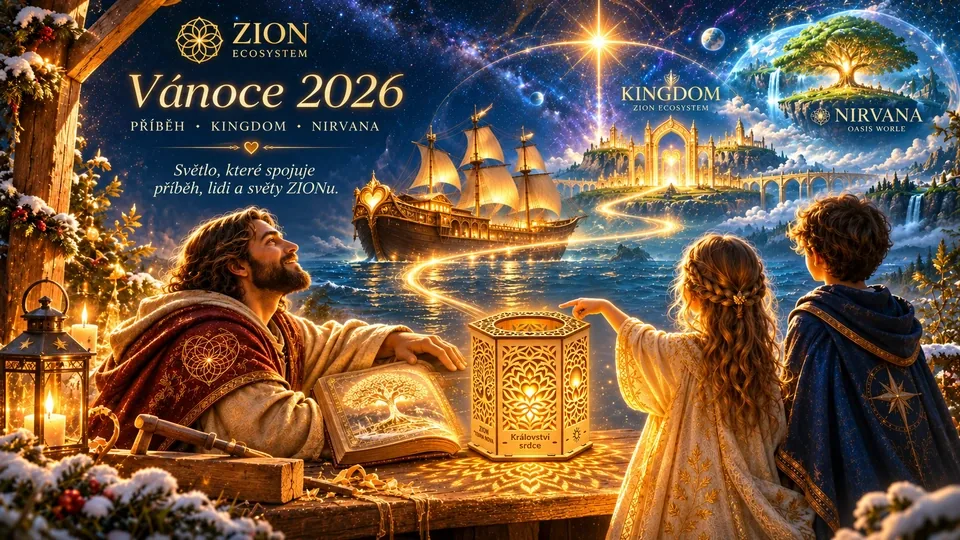
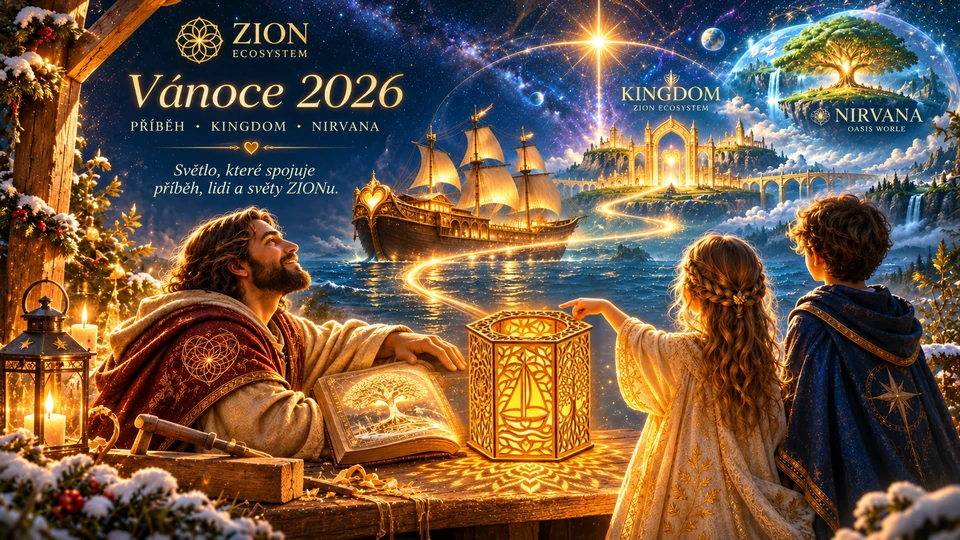
vizual: Lumi 2 hero bannery na 3 doménách + cache-busting ?v=7
Sada ZION_Hero_Lumi_2_WebP (heros/shop/Lumi) nahrazuje osm bannerů pod
stávajícími jmény, ve stejných rozměrech:

- app: imágenes/home/christmas-kingdom(.webp|-m.webp) 1672×941 / 960×540,
  news/christmas-2026/{hero-1600,hero-960,lampion-wide}
- market: hero-kolekce-2027.webp, vanoce/hero/lampion-wide.webp
  (tyto dva už dovezl paralelní commit 614c88f19, který je strhl do svého)
- apex: images/market-open.webp

nginx drží obrázky 7 dní v prohlížeči (`max-age=604800`), takže kdo je viděl
před výměnou, měl by starý banner až do vypršení cache. Proto je verze v kódu
posunutá na `?v=7` — u src i srcSet shodně, aby si prohlížeč nevybral
polovinu z cache. Obrázky, které se neměnily (card-lampion, galerie, příběh),
zůstávají na `?v=6`.

Ověřeno na živých serverech: všech 8 URL vrací 200 a SHA/MD5 nových souborů,
HTML i CSS nesou `?v=7`.

Changed region(s): [[0.4688, 0.563, 0.625, 0.8889], [0.1875, 0.0296, 0.2188, 0.0889]]

diff --git a/apps/website-v2.9/src/app/news/christmas-2026/Christmas2026Client.tsx b/apps/website-v2.9/src/app/news/christmas-2026/Christmas2026Client.tsx
@@ -32,7 +32,7 @@ const Article = {
       {
         icon: Lamp,
         title: 'Lampion Království srdce — světlo z příběhu',
-        image: '/images/news/christmas-2026/lampion-wide.webp?v=6',
+        image: '/images/news/christmas-2026/lampion-wide.webp?v=7',
         imageAlt: 'Tesař s dětmi u hořícího lampionu, na stole kniha Království srdce a ZION Pass',
         text: 'Ručně gravírovaný lampion se vzorem Srdce Království vychází ze scény, kde Lumi nese lampu k bráně. Vzory na těle nejsou dekorace — jsou to mandaly z knihy. Vánoční edice za 432 Kč obsahuje digitální knihu v plné sadě, ZION Pass a bonus 43 200 ZION; digitální část dorazí hned, fyzický lampion odejde ze dílny, až bude hotový, proto je prodej zatím označený jako připravujeme. Geometrii výrobku určuje samostatná technická dokumentace, ne ilustrace.',
       },
@@ -123,7 +123,7 @@ const Article = {
       {
         icon: Lamp,
         title: 'The Kingdom of the Heart lantern — light from the story',
-        image: '/images/news/christmas-2026/lampion-wide.webp?v=6',
+        image: '/images/news/christmas-2026/lampion-wide.webp?v=7',
         imageAlt: 'The carpenter with children around the lit lantern, the Kingdom of the Heart book and ZION Pass on the table',
         text: 'A hand-engraved lantern bearing the Heart of the Kingdom pattern comes from the scene where Lumi carries her lamp to the gate. The patterns on its body are not decoration — they are the mandalas from the book. The Christmas edition at 432 CZK includes the full digital book set, a ZION Pass and a 43,200 ZION bonus; the digital part arrives immediately, while the crafted lantern ships from the workshop once finished, which is why the sale is still marked as coming soon. The geometry of the piece is defined by its own technical documentation, not by an illustration.',
       },
@@ -222,8 +222,8 @@ export default function Christmas2026Client() {
 
           <div className="relative mb-8 aspect-[16/9] overflow-hidden rounded-2xl border border-white/10">
             <img
-              src="/images/news/christmas-2026/hero-1600.webp?v=6"
-              srcSet="/images/news/christmas-2026/hero-960.webp?v=6 960w, /images/news/christmas-2026/hero-1600.webp?v=6 1600w"
+              src="/images/news/christmas-2026/hero-1600.webp?v=7"
+              srcSet="/images/news/christmas-2026/hero-960.webp?v=7 960w, /images/news/christmas-2026/hero-1600.webp?v=7 1600w"
               sizes="(min-width: 768px) 46rem, 100vw"
               alt={t.imageAlt}
               width={1672}

diff --git a/apps/IntroPage/src/app/maintenance.html b/apps/IntroPage/src/app/maintenance.html
@@ -189,7 +189,7 @@
 						     banner nese vlastní text („Market is open"), takže
 						     potřebuje plnou šířku pod navigací. -->
 						<a class="hero-christmas" href="https://market.zionterranova.com" target="_blank" rel="noopener" aria-label="Market is open — vánoční pozvánka do Marketu">
-							<img src="images/market-open.webp?v=6" alt="Market is open — vánoční pozvánka do ZION Marketu (PF 2027)" width="1672" height="941" loading="lazy" decoding="async">
+							<img src="images/market-open.webp?v=7" alt="Market is open — vánoční pozvánka do ZION Marketu (PF 2027)" width="1672" height="941" loading="lazy" decoding="async">
 						</a>
 
 					</header>

diff --git a/apps/website-v2.9/src/components/HeroSlider.tsx b/apps/website-v2.9/src/components/HeroSlider.tsx
@@ -15,8 +15,8 @@ interface Slide {
 
 const SLIDES: Slide[] = [
   {
-    src: '/images/home/christmas-kingdom.webp?v=6',
-    srcM: '/images/home/christmas-kingdom-m.webp?v=6',
+    src: '/images/home/christmas-kingdom.webp?v=7',
+    srcM: '/images/home/christmas-kingdom-m.webp?v=7',
     alt: {
       cs: 'Veselé Vánoce a šťastný nový rok 2027 — Kingdom, archa a Strom života ve sněhu',
       en: 'Merry Christmas & Happy New Year 2027 — Kingdom, the ark and the Tree of Life in the snow',

diff --git a/apps/MarketPlace/src/data/christmasProducts.ts b/apps/MarketPlace/src/data/christmasProducts.ts
@@ -609,7 +609,7 @@ export const christmasProducts: XmasProduct[] = [
     externalId: 'lamp-001',
     image: '/vanoce-lampion.webp?v=6',
     hero: '/vanoce/home/03_lampion_tesar_deti_v4.webp?v=6',
-    heroWide: '/vanoce/hero/lampion-wide.webp?v=6',
+    heroWide: '/vanoce/hero/lampion-wide.webp?v=7',
     model3d: '/models/lumi-2.glb',
     guide: {
       title: { cs: 'Složení lampionu — šest kroků', en: 'Assembling the lantern — six steps' },

diff --git a/apps/MarketPlace/src/app/globals.css b/apps/MarketPlace/src/app/globals.css
@@ -944,7 +944,7 @@ body.zion-shell {
   margin: clamp(0.5rem, 2vw, 1.5rem) auto 0;
   aspect-ratio: 1672 / 941;
   border-radius: 1rem;
-  background-image: url('/hero-kolekce-2027.webp?v=6');
+  background-image: url('/hero-kolekce-2027.webp?v=7');
   background-size: cover;
   background-position: center;
   background-repeat: no-repeat;
